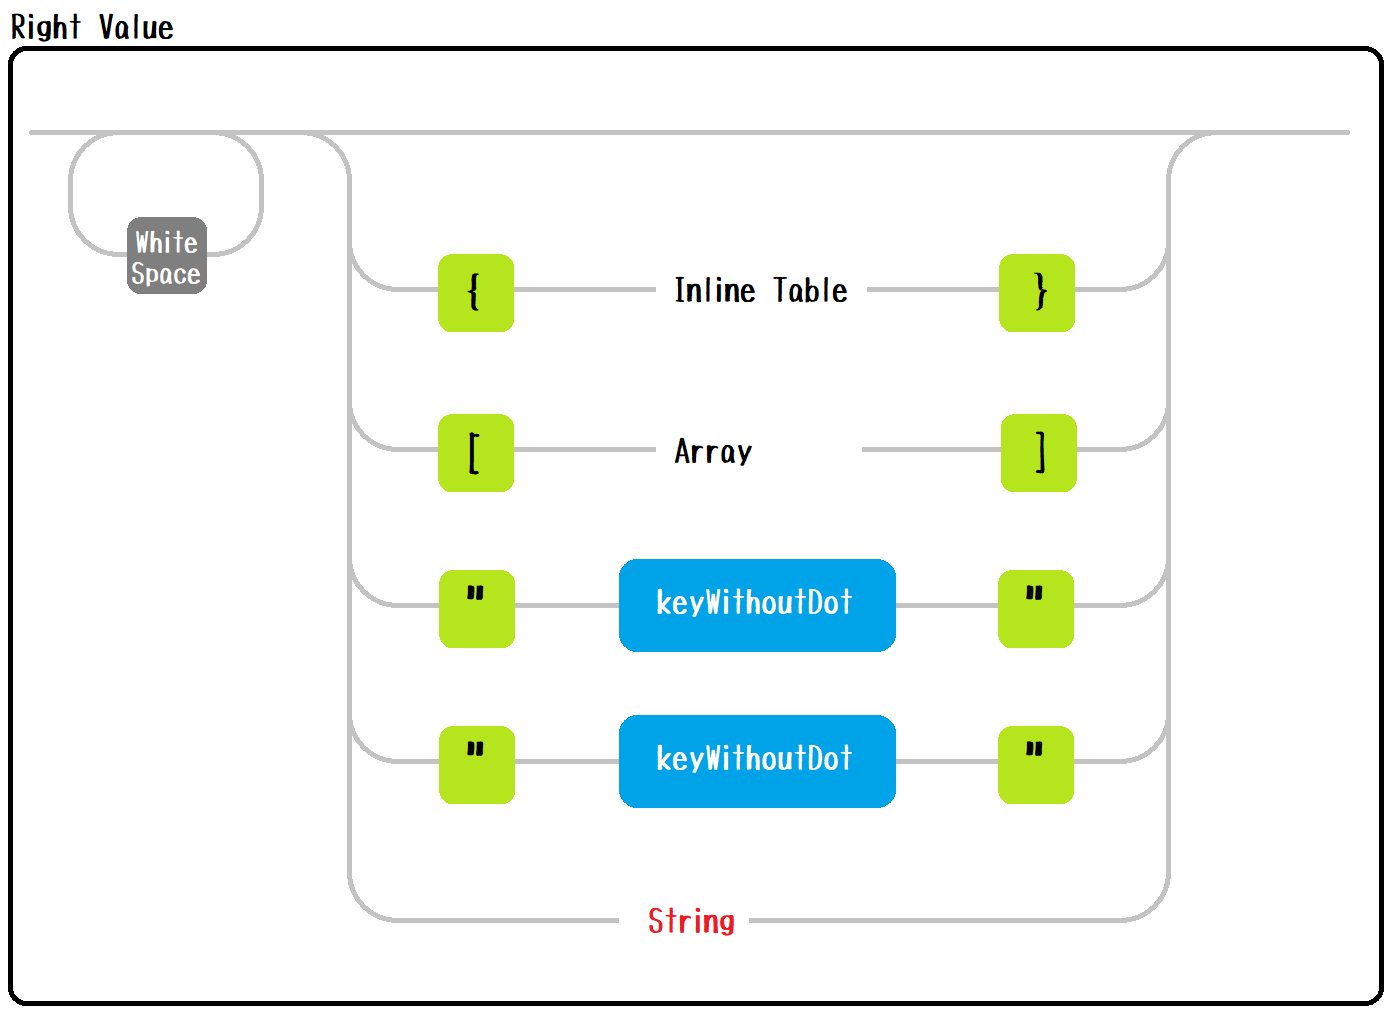
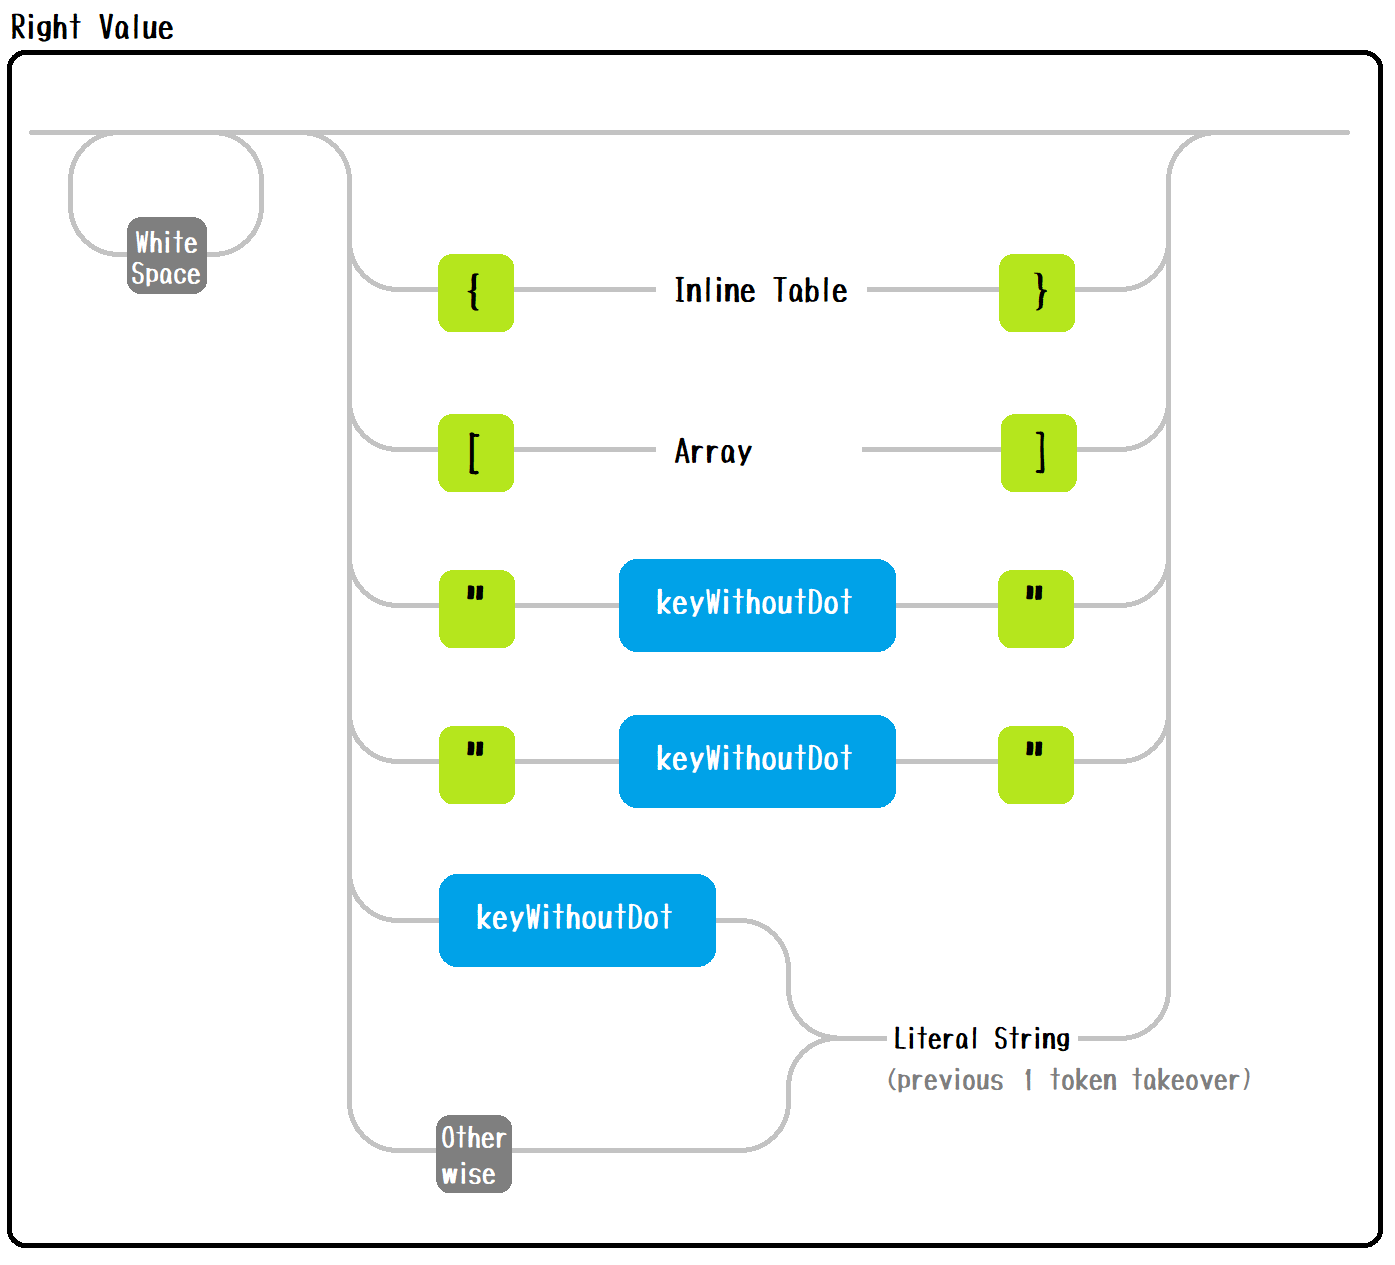
Publish.

diff --git a/src/parser/phase200/layer225/right_value.rs b/src/parser/phase200/layer225/right_value.rs
@@ -167,7 +167,23 @@ impl RightValueP {
                         self.double_quoted_string_p = Some(DoubleQuotedStringP::new());
                         self.state = State::DoubleQuotedString;
                     }
-                    TokenType::KeyWithoutDot => {
+                    // `{`.
+                    TokenType::LeftCurlyBracket => {
+                        self.inline_table_p = Some(InlineTableP::default());
+                        self.state = State::AfterLeftCurlyBracket;
+                    }
+                    // `[`.
+                    TokenType::LeftSquareBracket => {
+                        self.array_p = Some(ArrayP::default());
+                        self.state = State::AfterLeftSquareBracket;
+                    }
+                    // `'`.
+                    TokenType::SingleQuotation => {
+                        self.single_quoted_string_p = Some(SingleQuotedStringP::new());
+                        self.state = State::SingleQuotedString;
+                    }
+                    TokenType::WhiteSpace => {} //Ignored it.
+                    TokenType::KeyWithoutDot | _ => {
                         self.literal_string_p = Some(LiteralStringP::new());
                         self.state = State::LiteralString;
                         let p = self.literal_string_p.as_mut().unwrap();
@@ -203,26 +219,6 @@ impl RightValueP {
                             }
                             PResult::Ongoing => {}
                         }
-                    }
-                    // `{`.
-                    TokenType::LeftCurlyBracket => {
-                        self.inline_table_p = Some(InlineTableP::default());
-                        self.state = State::AfterLeftCurlyBracket;
-                    }
-                    // `[`.
-                    TokenType::LeftSquareBracket => {
-                        self.array_p = Some(ArrayP::default());
-                        self.state = State::AfterLeftSquareBracket;
-                    }
-                    // `'`.
-                    TokenType::SingleQuotation => {
-                        self.single_quoted_string_p = Some(SingleQuotedStringP::new());
-                        self.state = State::SingleQuotedString;
-                    }
-                    TokenType::WhiteSpace => {} //Ignored it.
-                    _ => {
-                        self.literal_string_p = Some(LiteralStringP::new());
-                        self.state = State::LiteralString;
                     }
                 }
             }

diff --git a/examples/example.rs b/examples/example.rs
@@ -21,11 +21,11 @@ fn main() {
     }
     if let Some(age) = doc.get_f64_by_key("weight") {
         println!("weight = {}", age);
-        // age = 93.5
+        // weight = 93.5
     }
 
-    // Read a string.
-    // 文字列読取。
+    // WIP. Read a string.
+    // 作業中。 文字列読取。
     if let Some(apple) = doc.get_str_by_key("apple") {
         println!("apple = {}", apple);
         // apple = pie

diff --git a/README.md b/README.md
@@ -62,9 +62,13 @@ fn main() {
         println!("age = {}", age);
         // age = 40
     }
+    if let Some(age) = doc.get_f64_by_key("weight") {
+        println!("weight = {}", age);
+        // weight = 93.5
+    }
 
-    // Read a string.
-    // 文字列読取。
+    // WIP. Read a string.
+    // 作業中。 文字列読取。
     if let Some(apple) = doc.get_str_by_key("apple") {
         println!("apple = {}", apple);
         // apple = pie
@@ -85,5 +89,7 @@ fn main() {
 
 ## TODO
 
-* [ ] Parsing a literal string containing dots. Example: `3.14`.  
+* [x] Parsing a literal string containing dots. Example: `3.14`.  
     ドットを含むリテラル文字列の解析。例： `3.14`。
+* [ ] Double quoted string.
+* [ ] Single quoted string.
